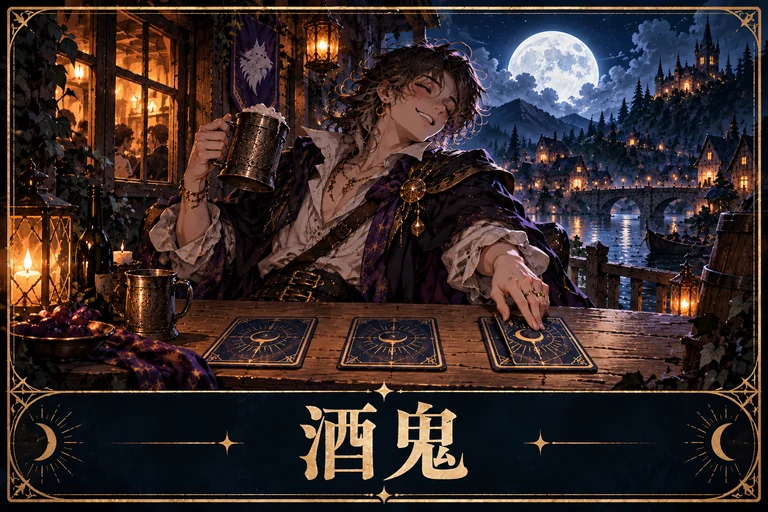
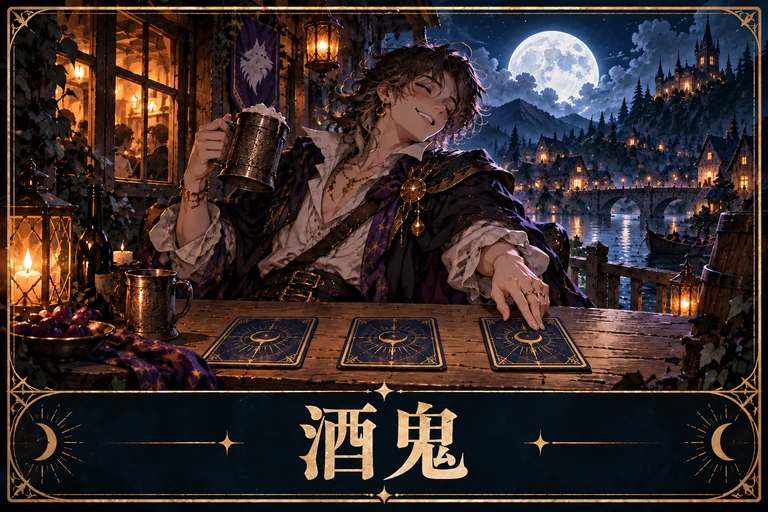
feat: update hunter shot mechanics and countdown display; improve error handling and UI elements

diff --git a/frontend/src/views/HunterShotView.vue b/frontend/src/views/HunterShotView.vue
@@ -7,16 +7,17 @@ import { errorText } from '../gameConfig'
 import { avatarUrl } from '../avatar'
 import { sortPlayers } from '../playerOrder'
 import ConfirmDialog from '../components/ConfirmDialog.vue'
+import RoleCard from '../components/RoleCard.vue'
 
 const { state, error, applyState } = useRoomState()
-const target = ref('')
+const target = ref(null)
 const busy = ref(false)
 const err = ref('')
 const confirmOpen = ref(false)
 const users = computed(() => sortPlayers(creds().roomid, (state.value?.users || []).filter(p => p.userid !== creds().userid)))
 const done = computed(() => state.value?.shot_target !== null && state.value?.shot_target !== undefined)
 async function shoot() {
-  if (busy.value || done.value || !state.value?.can_shoot) return
+  if (busy.value || done.value || !state.value?.can_shoot || !target.value) return
   err.value = ''
   confirmOpen.value = false
   busy.value = true
@@ -28,33 +29,97 @@ async function shoot() {
 </script>
 
 <template>
-  <section v-if="state" class="container">
-    <h1>猎人开枪</h1>
-    <p>投票处决：{{ state.executed.join('、') }}</p>
-    <p class="muted">被投票处决的最终猎人可开枪带走一人。枪击猎人不会触发再次开枪。</p>
-    <template v-if="state.can_shoot && !done">
-      <h2>选择开枪目标</h2>
+  <div v-if="state" class="hunter-view">
+    <section class="container hunter-hero">
+      <span class="hunter-eyebrow">投票已结束 · 猎人行动</span>
+      <template v-if="state.can_shoot">
+        <RoleCard role="hunter" :roomid="creds().roomid" :userid="creds().userid" eager class="hunter-art" />
+        <h1>你的最终身份是猎人</h1>
+        <p class="hero-copy">你被投票处决了，现在必须开枪带走一名玩家。<br>这是你的最后一次行动。</p>
+      </template>
+      <template v-else>
+        <div class="hunter-emblem" aria-hidden="true">⌖</div>
+        <h1>等待猎人最后一枪</h1>
+        <p class="hero-copy">投票已结束，被处决的猎人正在选择目标。<br>行动完成后，将揭晓所有身份与本局结果。</p>
+      </template>
+      <div class="execution-summary">
+        <span>投票处决</span>
+        <div class="execution-chips"><span v-for="uid in state.executed" :key="uid">{{ uid }}</span></div>
+      </div>
+    </section>
+
+    <section v-if="state.can_shoot && !done" class="container hunter-action">
+      <div class="action-heading"><h2>选择开枪目标</h2><span>必须选择一人</span></div>
+      <p class="action-copy">被选中的玩家将加入处决名单。请根据讨论与线索作出选择。</p>
       <div class="shot-grid">
-        <button v-for="u in users" :key="u.userid" :class="{ selected: target === u.userid }"
-          :aria-pressed="target === u.userid" :disabled="busy" @click="target = u.userid">
-          <img :src="avatarUrl(u.avatar)" alt="" />{{ u.userid }}
+        <button v-for="u in users" :key="u.userid" type="button" class="shot-player"
+          :class="{ selected: target === u.userid }" :aria-pressed="target === u.userid"
+          :disabled="busy" @click="target = u.userid">
+          <img :src="avatarUrl(u.avatar)" alt="" />
+          <span class="player-copy"><strong>{{ u.userid }}</strong><span>{{ state.executed.includes(u.userid) ? '已被投票处决' : '可选择为目标' }}</span></span>
+          <span class="pick-mark" aria-hidden="true">{{ target === u.userid ? '✓' : '○' }}</span>
         </button>
       </div>
-      <button :class="{ selected: target === '' }" :aria-pressed="target === ''" :disabled="busy" @click="target = ''">放弃开枪</button>
-      <p>{{ target ? `将开枪带走 ${target}` : '选择放弃开枪' }}</p>
-      <button class="btn-primary btn-block" :disabled="busy" @click="confirmOpen = true">{{ busy ? '提交中…' : '确认选择' }}</button>
-    </template>
-    <p v-else-if="state.can_shoot">{{ state.shot_target ? `已开枪：${state.shot_target}` : '已放弃开枪' }}。等待其他猎人完成选择。</p>
-    <p v-else>等待被投票处决的猎人完成开枪选择。</p>
-    <p v-if="err || error" class="error">{{ err || errorText(error) }}</p>
-    <ConfirmDialog v-if="confirmOpen" :confirm-disabled="busy" title="确认猎人行动" :message="target ? `开枪带走 ${target}？提交后不能修改。` : '确认放弃开枪？提交后不能修改。'" @confirm="shoot" @cancel="confirmOpen = false" />
-  </section>
+      <div class="selection-summary" role="status" aria-live="polite">
+        <span>{{ target === null ? '尚未选择' : '开枪目标' }}</span>
+        <strong>{{ target === null ? '请选择一名玩家作为开枪目标' : target }}</strong>
+      </div>
+      <button type="button" class="btn-primary btn-block" :disabled="busy || target === null" @click="confirmOpen = true">
+        {{ busy ? '提交中…' : target ? '确认开枪' : '请先选择' }}
+      </button>
+      <p class="action-footnote">提交后无法修改。枪击猎人不会触发再次开枪。</p>
+    </section>
+
+    <section v-else class="container hunter-wait" role="status" aria-live="polite">
+      <span class="wait-mark" aria-hidden="true">{{ state.can_shoot ? '✓' : '☾' }}</span>
+      <div>
+        <h2>{{ state.can_shoot ? '你的行动已完成' : '等待猎人完成行动' }}</h2>
+        <p v-if="state.can_shoot">你已开枪带走 {{ state.shot_target }}。等待其他猎人完成选择后，自动进入结算。</p>
+        <p v-else>无需操作，行动完成后自动进入结算。</p>
+      </div>
+    </section>
+    <p v-if="err || error" class="container error" role="alert">{{ err || errorText(error) }}</p>
+    <ConfirmDialog v-if="confirmOpen" :confirm-disabled="busy" title="确认最后一枪"
+      confirm-text="开枪"
+      :message="`你将开枪带走 ${target}，将其加入处决名单。提交后无法修改。`"
+      @confirm="shoot" @cancel="confirmOpen = false" />
+  </div>
+  <section v-else class="container hunter-wait" role="status"><p>{{ error ? errorText(error) : '正在加载投票结果…' }}</p></section>
 </template>
 
 <style scoped>
-.shot-grid { display: grid; grid-template-columns: repeat(2, minmax(0, 1fr)); gap: 10px; }
-.shot-grid button { display: flex; align-items: center; gap: 10px; }
-.shot-grid img { width: 40px; height: 40px; border-radius: 50%; }
-.selected { border-color: var(--accent); background: rgba(229, 189, 84, .1); }
-p { line-height: 1.75; }
+.hunter-hero { padding: 22px; text-align: center; border-color: rgba(229, 189, 84, .28); background: radial-gradient(ellipse at top, rgba(229, 189, 84, .09), transparent 65%), var(--surface); }
+.hunter-eyebrow { color: var(--accent); font-size: .7rem; letter-spacing: .1em; }
+.hunter-art { margin: 18px 0 22px; box-shadow: var(--shadow-sm); }
+.hunter-hero h1 { margin: 0; font-size: clamp(1.25rem, 5.5vw, 1.6rem); letter-spacing: .03em; }
+.hero-copy { margin: 12px 0 20px; color: var(--text-dim); font-size: .8rem; line-height: 1.9; }
+.hunter-emblem { display: grid; place-items: center; width: 66px; height: 66px; margin: 22px auto; border: 1px solid rgba(229, 189, 84, .35); border-radius: 50%; color: var(--accent); background: rgba(229, 189, 84, .06); font-size: 2.4rem; }
+.execution-summary { display: flex; align-items: center; justify-content: space-between; gap: 14px; padding-top: 16px; border-top: 1px solid var(--border); text-align: left; }
+.execution-summary > span { color: var(--text-dim); font-size: .72rem; white-space: nowrap; }
+.execution-chips { display: flex; flex-wrap: wrap; justify-content: flex-end; gap: 6px; }
+.execution-chips span { padding: 5px 9px; border: 1px solid var(--border-strong); border-radius: 6px; background: var(--surface-2); font-size: .75rem; overflow-wrap: anywhere; }
+.hunter-action { padding: 22px; }
+.action-heading { display: flex; align-items: center; justify-content: space-between; gap: 12px; }
+.action-heading h2, .hunter-wait h2 { margin: 0; font-size: 1rem; }
+.action-heading > span { color: var(--text-faint); font-size: .7rem; }
+.action-copy { margin: 10px 0 18px; color: var(--text-dim); font-size: .78rem; line-height: 1.8; }
+.shot-grid { display: grid; grid-template-columns: repeat(2, minmax(0, 1fr)); gap: 9px; }
+.shot-player { position: relative; display: flex; align-items: center; gap: 8px; min-width: 0; margin: 0; padding: 16px 10px; border: 1px solid var(--border); border-radius: 12px; background: var(--surface-2); text-align: left; }
+.shot-player img { width: 36px; height: 36px; flex-shrink: 0; border-radius: 50%; object-fit: cover; }
+.player-copy { display: flex; flex-direction: column; gap: 5px; min-width: 0; }
+.player-copy strong { font-size: .8rem; overflow-wrap: anywhere; }
+.player-copy > span { color: var(--text-faint); font-size: .6rem; }
+.pick-mark { color: var(--text-faint); font-size: .8rem; }
+.shot-player .pick-mark { position: absolute; top: 4px; right: 6px; }
+.selected { border-color: var(--accent); background: rgba(229, 189, 84, .09); }
+.selected .pick-mark, .selected strong { color: var(--accent-hover); }
+.selection-summary { margin: 20px 0 16px; padding-top: 16px; border-top: 1px solid var(--border); }
+.selection-summary > span { display: block; color: var(--text-faint); font-size: .68rem; margin-bottom: 6px; }
+.selection-summary strong { font-size: .85rem; overflow-wrap: anywhere; }
+.action-footnote { margin: 12px 0 0; color: var(--text-faint); font-size: .68rem; line-height: 1.8; text-align: center; }
+.hunter-wait { display: flex; align-items: flex-start; gap: 14px; padding: 22px; }
+.wait-mark { display: grid; place-items: center; width: 38px; height: 38px; flex-shrink: 0; border: 1px solid rgba(229, 189, 84, .25); border-radius: 50%; color: var(--accent); background: rgba(229, 189, 84, .06); }
+.hunter-wait p { margin: 9px 0 0; color: var(--text-dim); font-size: .78rem; line-height: 1.8; }
+button:focus-visible { outline: 2px solid var(--accent-hover); outline-offset: 3px; }
+@media (max-width: 360px) { .hunter-hero, .hunter-action, .hunter-wait { padding: 18px 14px; } .shot-player { padding: 16px 8px; gap: 6px; } .shot-player img { width: 30px; height: 30px; } .player-copy strong { font-size: .74rem; } .player-copy > span { font-size: .56rem; } }
 </style>

diff --git a/frontend/src/views/HomeView.vue b/frontend/src/views/HomeView.vue
@@ -28,7 +28,7 @@ import RoleCard from '../components/RoleCard.vue'
             <div><dt><RoleCard role="robber" /><span>强盗</span></dt><dd>与一名其他玩家交换身份牌，并查看自己刚换到的牌。</dd></div>
             <div><dt><RoleCard role="troublemaker" /><span>捣蛋鬼</span></dt><dd>在强盗之后，交换另外两名玩家的牌，不能换自己，也不能查看被换的牌。</dd></div>
             <div><dt><RoleCard role="drunk" /><span>酒鬼</span></dt><dd>每局最多一张。在捣蛋鬼之后、失眠者之前，与一张中央牌交换，不查看新身份。</dd></div>
-            <div><dt><RoleCard role="hunter" /><span>猎人</span></dt><dd>数量不限。按最终身份发动：被投票处决（包括平票）时，可开枪带走一人；被枪击不会触发开枪。</dd></div>
+            <div><dt><RoleCard role="hunter" /><span>猎人</span></dt><dd>数量不限。按最终身份发动：被投票处决（包括平票）时，必须开枪带走一人；被枪击不会触发开枪。</dd></div>
             <div><dt><RoleCard role="insomniac" /><span>失眠者</span></dt><dd>在所有换牌结束后，查看自己的最终身份。</dd></div>
             <div><dt><RoleCard role="villager" /><span>村民</span></dt><dd>没有夜间能力，靠讨论与推理判断身份。</dd></div>
           </dl>
@@ -150,7 +150,7 @@ import RoleCard from '../components/RoleCard.vue'
     <div class="container">
       <div class="subtitle">更新日志</div>
       <p>
-        <b>v1.4.0（2026-10-03）：</b>新增酒鬼（每局最多一张，捣蛋鬼后、失眠者前盲换中央牌）与猎人（数量不限，被投票处决含平票时可开枪，不连锁）；新增猎人开枪页及两角色各三款插画，更新规则、回放与胜负结算；修复更换头像后本地默认头像的同步。
+        <b>v1.4.0（2026-10-03）：</b>新增酒鬼（每局最多一张，捣蛋鬼后、失眠者前盲换中央牌）与猎人（数量不限，被投票处决含平票时必须开枪，不连锁）；新增猎人开枪页及两角色各三款插画，更新规则、回放与胜负结算；修复更换头像后本地默认头像的同步。
       </p>
       <p>
         <b>v1.3.0（2026-09-19）：</b>合并创建与加入房间入口，修复邀请链接刷新后重复填入房间号；等待室板子修改自动保存，支持更换头像并在开局后锁定；夜间操作与信息默认收起，支持随时展开；新增多款角色插画，压缩并缓存图片；优化各页面布局与流程说明。

diff --git a/frontend/src/views/OperationView.vue b/frontend/src/views/OperationView.vue
@@ -21,16 +21,16 @@ const now = ref(Date.now())
 let countdownTimer
 onMounted(() => {
   now.value = Date.now()
-  countdownTimer = setInterval(() => { now.value = Date.now() }, 10)
+  countdownTimer = setInterval(() => { now.value = Date.now() }, 1000)
 })
 onUnmounted(() => clearInterval(countdownTimer))
 
 const countdown = computed(() => {
   const end = state.value?.op_end_time_ms
   if (!Number.isFinite(end)) return '加载中...'
-  const hundredths = Math.ceil(Math.max(0, end - now.value) / 10)
-  if (hundredths === 0) return '跳转中...'
-  return `${Math.floor(hundredths / 100)}.${String(hundredths % 100).padStart(2, '0')}`
+  const remaining = Math.max(0, end - now.value)
+  if (remaining === 0) return '跳转中...'
+  return `${Math.ceil(remaining / 1000)}s`
 })
 
 const role = computed(() => state.value?.role)

diff --git a/frontend/tests/defensive.test.js b/frontend/tests/defensive.test.js
@@ -73,11 +73,11 @@ test('ops countdown uses the server end time and waits for phase transition at z
   const { instance: c, state } = load('views/OperationView.vue')
   c.now.value = 100000
   state.value = { phase: 'op', op_end_time_ms: 147030 }
-  assert.equal(c.countdown.value, '47.03')
+  assert.equal(c.countdown.value, '48s')
   c.now.value = 146020
-  assert.equal(c.countdown.value, '1.01')
+  assert.equal(c.countdown.value, '2s')
   c.now.value = 147029
-  assert.equal(c.countdown.value, '0.01')
+  assert.equal(c.countdown.value, '1s')
   c.now.value = 147030
   assert.equal(c.countdown.value, '跳转中...')
   c.now.value = 150000

diff --git a/backend/room/tests.py b/backend/room/tests.py
@@ -410,4 +410,5 @@ class NewRoleChecks(TestCase):
         for p, role, vote, choice in zip(self.players, ["robber", "hunter", "werewolf"], ["B", "A", "A"], [{"type": "robber", "target": "B"}, {}, {}]):
             p.role, p.vote_target, p.choice = role, vote, choice; p.save()
         self.assertEqual(self.call(views.room_state)["hunters"], ["A"])
-        self.assertEqual(self.call(views.hunter_shot, target="")["phase"], "result")
+        self.assertEqual(self.call(views.hunter_shot, target="")["error"], "bad_target")
+        self.assertEqual(self.call(views.hunter_shot, target="C")["phase"], "result")

diff --git a/backend/room/views.py b/backend/room/views.py
@@ -540,7 +540,7 @@ def hunter_shot(request):
             target = body.get("target")
             if not isinstance(target, str) or target == player.userid:
                 raise ApiError("bad_target")
-            if target != "" and not room.players.filter(userid=target).exists():
+            if not target or not room.players.filter(userid=target).exists():
                 raise ApiError("bad_target")
             updated = Player.objects.filter(id=player.id, room__phase="shoot", shot_target__isnull=True).update(shot_target=target)
             if not updated:
